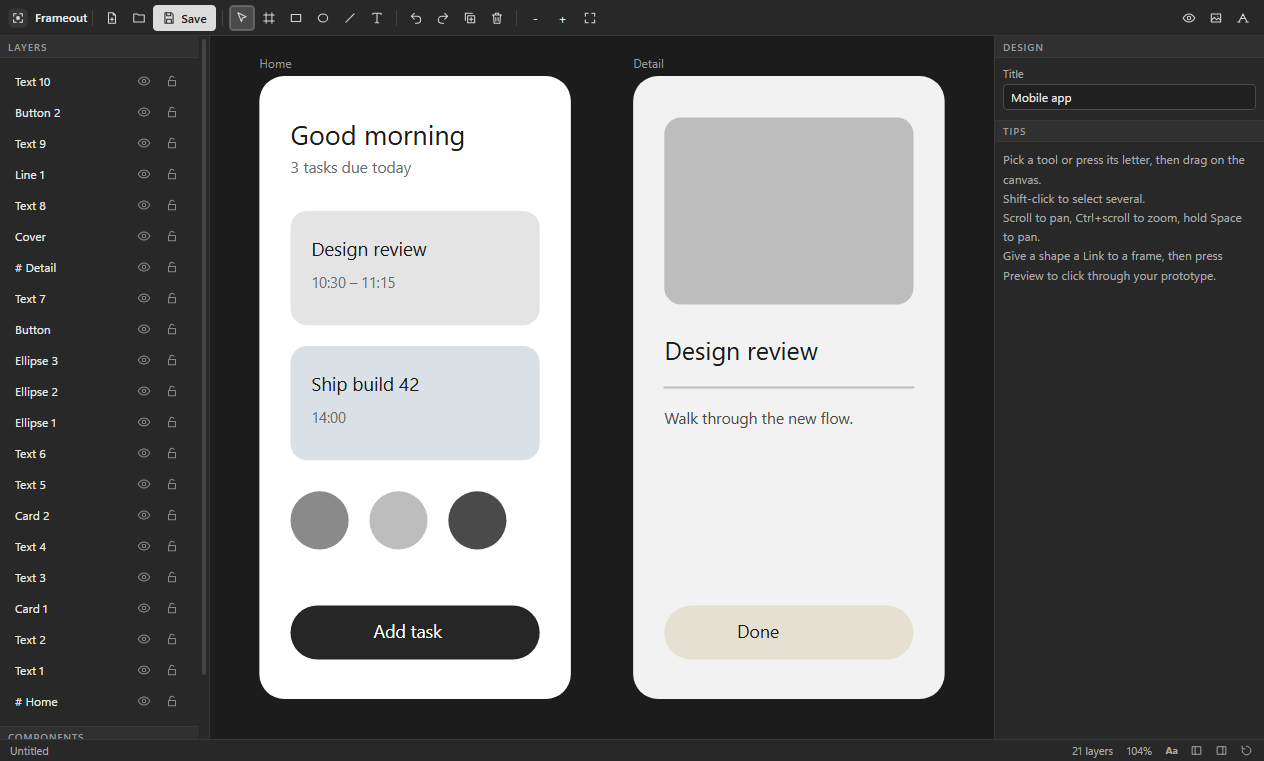
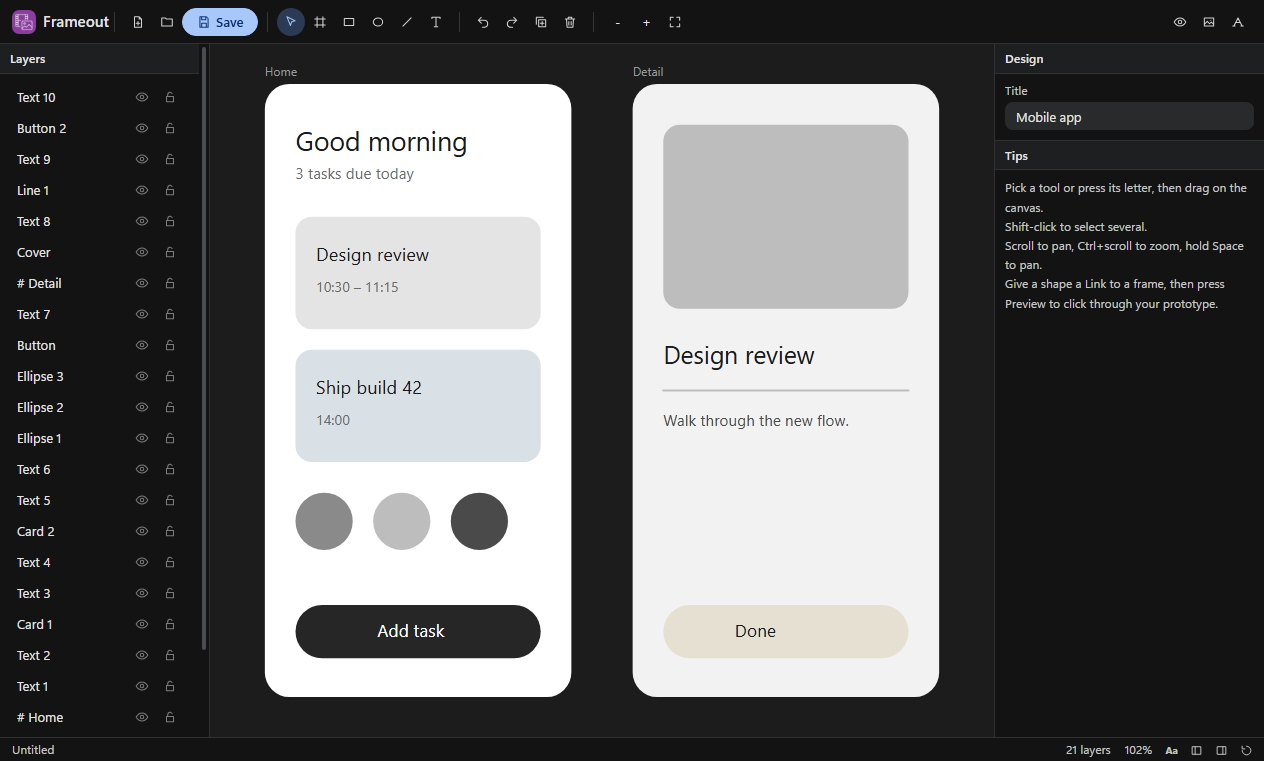
fix: Frameout 1.0.12
New Google-style look: charcoal theme, pill buttons, blue accent, colour app logo. Refreshed README and screenshots.

diff --git a/renderer/lookout.css b/renderer/lookout.css
@@ -1,68 +1,69 @@
-/* Lookout gray UI kit v3: compact pro workspace, flat, no hue. Shared by every Lookout app. */
+/* Lookout UI kit v4: Google-style dark (AI Studio / Colab / Gemini): soft surfaces, pill buttons, blue accent. Shared by every Lookout app. */
 :root{
-  --bg:#202020; --bg-2:#282828; --bg-3:#303030; --bg-4:#3a3a3a; --stage:#181818;
-  --line:#383838; --line-2:#4a4a4a; --line-3:#5c5c5c;
-  --text:#e8e8e8; --text-2:#ababab; --text-3:#9a9a9a;
-  --accent:#dcdcdc; --accent-ink:#1b1b1b; --focus:#a0a0a0;
-  --radius:4px; --h:26px; --pad:8px;
-  --font:"Segoe UI Variable Text","Segoe UI",system-ui,-apple-system,sans-serif; --mono:Consolas,"Cascadia Mono",monospace;
+  --bg:#131314; --bg-2:#1e1f20; --bg-3:#282a2c; --bg-4:#333537; --stage:#0e0e0f;
+  --line:#2f3133; --line-2:#444746; --line-3:#5f6368;
+  --text:#e3e3e3; --text-2:#c4c7c5; --text-3:#9aa0a6;
+  --accent:#a8c7fa; --accent-ink:#062e6f; --accent-2:#0b57d0; --accent-soft:#2b3a55; --focus:#a8c7fa;
+  --radius:8px; --h:28px; --pad:10px;
+  --font:"Google Sans Text","Google Sans",Roboto,"Segoe UI Variable Text","Segoe UI",system-ui,-apple-system,sans-serif; --mono:Consolas,"Cascadia Mono",monospace;
 }
 *{box-sizing:border-box;margin:0;padding:0}
-html,body{height:100%;background:var(--bg);color:var(--text);font:12px/1.4 var(--font);overflow:hidden;user-select:none;-webkit-font-smoothing:antialiased}
+html,body{height:100%;background:var(--bg);color:var(--text);font:13px/1.45 var(--font);overflow:hidden;user-select:none;-webkit-font-smoothing:antialiased}
 button,input,select,textarea{font:inherit;color:inherit}
 .app{display:grid;grid-template-rows:auto 1fr auto;height:100vh}
 
 /* ---------- toolbar ---------- */
-.toolbar{display:flex;align-items:center;gap:1px;padding:4px 8px;min-height:36px;background:var(--bg-2);border-bottom:1px solid var(--line);flex-wrap:nowrap;overflow-x:auto;overflow-y:hidden;scrollbar-width:none}
+.toolbar{display:flex;align-items:center;gap:1px;padding:6px 12px;min-height:44px;background:var(--bg);border-bottom:1px solid var(--line);flex-wrap:nowrap;overflow-x:auto;overflow-y:hidden;scrollbar-width:none}
 .toolbar::-webkit-scrollbar{height:0}
 .toolbar>*{flex-shrink:0}
-.toolbar .sep{width:1px;height:16px;align-self:center;background:var(--line-2);margin:0 5px;opacity:.8}
+.toolbar .sep{width:1px;height:20px;align-self:center;background:var(--line-2);margin:0 8px;opacity:.7}
 .toolbar .grow{flex:1 1 auto;min-width:8px}
 .toolbar input[type=text],.toolbar input[type=search]{width:150px}
-.brand{display:flex;align-items:center;gap:7px;padding-right:2px;margin-right:2px;font-weight:600;font-size:12px;color:var(--text)}
-.brand img{width:20px;height:20px;border-radius:5px;display:block}
+.brand{display:flex;align-items:center;gap:7px;padding-right:2px;margin-right:2px;font-weight:500;font-size:15px;letter-spacing:.1px;color:var(--text)}
+.brand img{width:24px;height:24px;border-radius:7px;display:block}
 .brand+.sep{margin-left:0}
 
 /* ---------- buttons ---------- */
-.btn{display:inline-flex;align-items:center;justify-content:center;gap:5px;height:var(--h);padding:0 8px;background:var(--bg-3);border:1px solid var(--line);border-radius:var(--radius);cursor:pointer;white-space:nowrap;line-height:1;transition:background .08s,border-color .08s}
-.btn:hover{background:var(--bg-4);border-color:var(--line-2)}
-.btn:active{background:#262626}
+.btn{display:inline-flex;align-items:center;justify-content:center;gap:5px;height:var(--h);padding:0 14px;background:var(--bg-3);border:1px solid transparent;border-radius:999px;cursor:pointer;white-space:nowrap;line-height:1;transition:background .08s,border-color .08s}
+.btn:hover{background:var(--bg-4)}
+.btn:active{background:#3c3f41}
 .btn:focus-visible,input:focus-visible,select:focus-visible,textarea:focus-visible,[tabindex]:focus-visible{outline:2px solid var(--focus);outline-offset:1px}
-.btn.primary{background:var(--accent);color:var(--accent-ink);border-color:var(--accent);font-weight:600}
-.btn.primary:hover{background:#ececec;border-color:#ececec}
-.btn.on{background:#4a4a4a;border-color:var(--line-3);box-shadow:inset 0 0 0 1px #6a6a6a}
+.btn.primary{background:var(--accent);color:var(--accent-ink);border-color:var(--accent);font-weight:500}
+.btn.primary:hover{background:#c2d7fb;border-color:#c2d7fb;box-shadow:0 1px 3px rgba(0,0,0,.4)}
+.btn.on{background:var(--accent-soft);color:var(--accent);border-color:transparent}
 .btn[disabled]{opacity:.45;pointer-events:none}
-.btn.icon{padding:0;width:var(--h);min-width:var(--h)}
+.btn.icon{padding:0;width:var(--h);min-width:var(--h);border-radius:50%}
 .btn .ic{width:14px;height:14px;flex-shrink:0;display:block;opacity:.92}
 .toolbar .btn:not(.primary):not(.on){background:transparent;border-color:transparent}
-.toolbar .btn:not(.primary):not(.on):hover{background:var(--bg-4);border-color:var(--line-2)}
+.toolbar .btn:not(.primary):not(.on):hover{background:var(--bg-3);border-color:transparent}
 
 /* icon-only toolbar: names live in the tooltip (Aa in the status bar brings the labels back) */
-.toolbar:not(.lbl) .btn:not(.primary):has(> svg.ic),.toolbar.c3 .btn:has(> svg.ic){font-size:0;gap:0;width:var(--h);padding:0}
+.toolbar:not(.lbl) .btn:not(.primary):has(> svg.ic),.toolbar.c3 .btn:has(> svg.ic){font-size:0;gap:0;width:var(--h);padding:0;border-radius:50%}
 .toolbar.c2 .brand span{display:none}
 .toolbar.c2 input[type=text],.toolbar.c2 input[type=search]{width:110px}
 .toolbar.lbl.c1 .btn.minor:not(.primary):has(> svg.ic),.toolbar.lbl.c2 .btn:not(.primary):has(> svg.ic){font-size:0;gap:0;width:var(--h);padding:0}
 
 /* ---------- fields ---------- */
-input[type=text],input[type=number],input[type=search],input[type=date],select,textarea{background:var(--bg);border:1px solid var(--line-2);border-radius:var(--radius);padding:0 7px;height:var(--h);user-select:text;min-width:0;font-size:12px}
+input[type=text],input[type=number],input[type=search],input[type=date],select,textarea{background:var(--bg-3);border:1px solid transparent;border-radius:var(--radius);padding:0 10px;height:var(--h);user-select:text;min-width:0;font-size:13px}
 input[type=number],.frow>input,.field>input{font-variant-numeric:tabular-nums}
 textarea{height:auto;padding:5px 7px;resize:vertical;line-height:1.4}
 select{padding-right:4px;cursor:pointer}
-input:hover,select:hover,textarea:hover{border-color:var(--line-3)}
-input[type=range]{accent-color:#c8c8c8;height:var(--h)}
-input[type=checkbox]{accent-color:#c8c8c8;width:14px;height:14px;cursor:pointer}
-input[type=color]{border:1px solid var(--line-2);background:var(--bg);width:26px;height:var(--h);padding:2px;border-radius:var(--radius)}
-label.field{display:flex;flex-direction:column;gap:3px;color:var(--text-2);font-size:11px}
-label.field>input,label.field>select,label.field>textarea{width:100%;color:var(--text);font-size:12px}
+input:hover,select:hover,textarea:hover{background:var(--bg-4)}
+input[type=text]:focus,input[type=number]:focus,input[type=search]:focus,input[type=date]:focus,select:focus,textarea:focus{outline:none;border-color:var(--accent);background:var(--bg-2)}
+input[type=range]{accent-color:#a8c7fa;height:var(--h)}
+input[type=checkbox]{accent-color:#a8c7fa;width:14px;height:14px;cursor:pointer}
+input[type=color]{border:1px solid var(--line-2);background:var(--bg-3);width:26px;height:var(--h);padding:2px;border-radius:var(--radius)}
+label.field{display:flex;flex-direction:column;gap:3px;color:var(--text-2);font-size:12px}
+label.field>input,label.field>select,label.field>textarea{width:100%;color:var(--text);font-size:13px}
 
 /* ---------- layout ---------- */
 .main{display:flex;min-height:0;min-width:0}
-.sidebar{width:210px;background:var(--bg-2);border-right:1px solid var(--line);overflow:auto;padding:var(--pad);flex-shrink:0;min-width:0}
+.sidebar{width:210px;background:var(--bg);border-right:1px solid var(--line);overflow:auto;padding:var(--pad);flex-shrink:0;min-width:0}
 .sidebar.right{border-right:0;border-left:1px solid var(--line);width:250px}
 .sidebar.collapsed{display:none!important}
-.sidebar h3,.panel-title{font-size:10px;text-transform:uppercase;letter-spacing:.09em;color:var(--text-3);font-weight:600}
+.sidebar h3,.panel-title{font-size:12px;letter-spacing:.2px;color:var(--text-2);font-weight:500}
 .sidebar h3{margin:12px 0 6px}
-.sidebar>h3{display:flex;align-items:center;gap:6px;height:22px;margin:10px calc(var(--pad) * -1) 8px;padding:0 var(--pad);background:var(--bg-3);border-top:1px solid var(--line);border-bottom:1px solid var(--line)}
+.sidebar>h3{display:flex;align-items:center;gap:6px;height:30px;margin:10px calc(var(--pad) * -1) 8px;padding:0 var(--pad);background:var(--bg-2);border-top:1px solid var(--line);border-bottom:1px solid var(--line);color:var(--text)}
 .sidebar>h3:first-child{margin-top:calc(var(--pad) * -1);border-top:0}
 .panel-title{margin:12px 0 6px}
 .sidebar input[type=text],.sidebar input[type=search],.sidebar select,.sidebar textarea{width:100%}
@@ -73,20 +74,20 @@ label.field>input,label.field>select,label.field>textarea{width:100%;color:var(-
 .sidebar .btn{width:auto}
 .sidebar>.btn{width:100%;margin-bottom:5px}
 .stage{flex:1;min-width:0;min-height:0;position:relative;background:var(--stage);overflow:auto}
-.status{display:flex;gap:14px;align-items:center;height:22px;padding:0 10px;background:var(--bg-2);border-top:1px solid var(--line);color:var(--text-2);font-size:11px;white-space:nowrap;overflow:hidden}
+.status{display:flex;gap:14px;align-items:center;height:24px;padding:0 12px;background:var(--bg);border-top:1px solid var(--line);color:var(--text-2);font-size:12px;white-space:nowrap;overflow:hidden}
 .status .grow{flex:1}
 body.hasdock .status{padding-right:112px}
-.wbs{position:fixed;right:6px;bottom:2px;height:18px;display:flex;gap:2px;z-index:8;background:var(--bg-2);padding-left:6px}
+.wbs{position:fixed;right:6px;bottom:2px;height:18px;display:flex;gap:2px;z-index:8;background:var(--bg);padding-left:6px}
 .wbs[hidden]{display:none}
-.wbs .wb{height:18px;min-width:22px;padding:0 4px;display:inline-flex;align-items:center;justify-content:center;font-size:10px;font-weight:700;line-height:1;background:transparent;border:1px solid transparent;border-radius:3px;color:var(--text-2);cursor:pointer}
+.wbs .wb{height:18px;min-width:22px;padding:0 4px;display:inline-flex;align-items:center;justify-content:center;font-size:10px;font-weight:700;line-height:1;background:transparent;border:1px solid transparent;border-radius:6px;color:var(--text-2);cursor:pointer}
 .wbs .wb[hidden]{display:none}
 .wbs .wb svg{width:13px;height:13px;display:block}
-.wbs .wb:hover{background:var(--bg-4);border-color:var(--line-2);color:var(--text)}
-.wbs .wb.on{background:var(--bg-4);border-color:var(--line-3);color:var(--text)}
+.wbs .wb:hover{background:var(--bg-3);color:var(--text)}
+.wbs .wb.on{background:var(--accent-soft);color:var(--accent)}
 .list{display:flex;flex-direction:column;gap:1px}
-.list .item{padding:3px 6px;border-radius:var(--radius);cursor:pointer;border:1px solid transparent;display:flex;gap:6px;align-items:center;min-height:26px}
+.list .item{padding:3px 10px;border-radius:999px;cursor:pointer;border:1px solid transparent;display:flex;gap:6px;align-items:center;min-height:26px}
 .list .item:hover{background:var(--bg-3)}
-.list .item.sel{background:var(--bg-4);border-color:var(--line-2)}
+.list .item.sel{background:var(--accent-soft);color:var(--accent);border-color:transparent}
 .row{display:flex;gap:5px;align-items:center}
 .grow{flex:1 1 auto;min-width:0}
 .brow{display:grid;grid-template-columns:1fr 1fr;gap:5px;margin-bottom:5px}
@@ -99,17 +100,17 @@ body.hasdock .status{padding-right:112px}
 .sidebar .swatches{margin-bottom:8px}
 .list .item .btn{height:22px!important;width:24px!important;padding:0!important;font-size:0!important;gap:0;background:transparent;border-color:transparent;opacity:.55}
 .list .item:hover .btn,.list .item.sel .btn{opacity:1}
-.list .item .btn:hover{background:var(--bg-4);border-color:var(--line-2)}
+.list .item .btn:hover{background:var(--bg-4)}
 .col{display:flex;flex-direction:column;gap:5px}
 .muted{color:var(--text-2)}
 .empty{position:absolute;inset:0;display:flex;flex-direction:column;align-items:center;justify-content:center;gap:10px;color:var(--text-3);text-align:center;padding:24px}
-.empty .big{font-size:16px;color:var(--text-2);font-weight:600}
+.empty .big{font-size:20px;color:var(--text);font-weight:400}
 
 /* panel grip: drag to resize, double-click to collapse or restore */
 .grip{position:relative;flex:0 0 5px;width:5px;margin:0 -3px 0 -2px;z-index:6;cursor:col-resize;touch-action:none}
 .grip::after{content:"";position:absolute;top:0;bottom:0;left:2px;width:1px;background:transparent;transition:background .1s}
-.grip:hover::after,.grip.drag::after{background:var(--line-3);width:2px;left:1px}
-.grip.collapsed{flex:0 0 8px;width:8px;margin:0;background:var(--bg-2);border-left:1px solid var(--line);border-right:1px solid var(--line)}
+.grip:hover::after,.grip.drag::after{background:var(--accent);width:2px;left:1px}
+.grip.collapsed{flex:0 0 8px;width:8px;margin:0;background:var(--bg);border-left:1px solid var(--line);border-right:1px solid var(--line)}
 .grip.collapsed::after{left:3px;top:calc(50% - 14px);bottom:auto;height:28px;width:2px;background:var(--line-3);border-radius:2px}
 .grip.collapsed:hover{background:var(--bg-3)}
 body.gripping{cursor:col-resize}
@@ -117,30 +118,30 @@ body.gripping *{cursor:col-resize!important;user-select:none!important}
 
 /* ---------- overlays ---------- */
 .modal-back{position:fixed;inset:0;background:rgba(0,0,0,.6);display:flex;align-items:center;justify-content:center;z-index:50}
-.modal{background:var(--bg-2);border:1px solid var(--line-2);border-radius:8px;min-width:340px;max-width:80vw;max-height:85vh;overflow:auto;padding:16px;display:flex;flex-direction:column;gap:12px;box-shadow:0 18px 50px rgba(0,0,0,.5)}
-.modal h2{font-size:14px;font-weight:600}
-.toast{position:fixed;left:50%;bottom:34px;transform:translateX(-50%);background:var(--bg-4);border:1px solid var(--line-3);padding:7px 14px;border-radius:6px;z-index:60;box-shadow:0 8px 24px rgba(0,0,0,.4)}
-.progress{height:5px;background:var(--bg);border:1px solid var(--line);border-radius:4px;overflow:hidden}
+.modal{background:var(--bg-2);border:0;border-radius:24px;min-width:360px;max-width:80vw;max-height:85vh;overflow:auto;padding:24px;display:flex;flex-direction:column;gap:14px;box-shadow:0 8px 32px rgba(0,0,0,.6)}
+.modal h2{font-size:20px;font-weight:400}
+.toast{position:fixed;left:50%;bottom:34px;transform:translateX(-50%);background:#e3e3e3;color:#1f1f1f;border:0;padding:10px 18px;border-radius:8px;z-index:60;box-shadow:0 8px 24px rgba(0,0,0,.4)}
+.progress{height:6px;background:var(--bg-3);border:0;border-radius:999px;overflow:hidden}
 .progress>i,.progress>div{display:block;height:100%;background:var(--accent);width:0}
 
 /* ---------- tables ---------- */
 table.grid{border-collapse:separate;border-spacing:0;width:100%}
 table.grid th,table.grid td{border-bottom:1px solid var(--line);padding:0 10px;height:30px;text-align:left;vertical-align:middle}
-table.grid th{background:var(--bg-2);color:var(--text-2);font-weight:600;font-size:11px;position:sticky;top:0;z-index:1;height:26px}
-table.grid tbody tr:hover td{background:#242424}
-table.grid tr.sel td{background:#323232}
+table.grid th{background:var(--bg-2);color:var(--text-2);font-weight:500;font-size:12px;position:sticky;top:0;z-index:1;height:26px}
+table.grid tbody tr:hover td{background:var(--bg-2)}
+table.grid tr.sel td{background:var(--accent-soft)}
 table.grid tbody tr{cursor:default}
 table.grid td .btn{height:22px;margin-left:6px;vertical-align:middle}
 table.grid td{white-space:nowrap}
 
 /* ---------- misc ---------- */
 ::-webkit-scrollbar{width:10px;height:10px}
-::-webkit-scrollbar-thumb{background:#454545;border:3px solid transparent;background-clip:padding-box;border-radius:8px}
-::-webkit-scrollbar-thumb:hover{background:#5a5a5a;background-clip:padding-box;border:3px solid transparent}
+::-webkit-scrollbar-thumb{background:#4a4d50;border:3px solid transparent;background-clip:padding-box;border-radius:8px}
+::-webkit-scrollbar-thumb:hover{background:#6b6f73;background-clip:padding-box;border:3px solid transparent}
 ::-webkit-scrollbar-track,::-webkit-scrollbar-corner{background:transparent}
 .swatches{display:flex;flex-wrap:wrap;gap:5px}
-.swatches button{width:20px;height:20px;border:1px solid var(--line-3);border-radius:4px;cursor:pointer;padding:0}
+.swatches button{width:22px;height:22px;border:1px solid var(--line-3);border-radius:50%;cursor:pointer;padding:0}
 .swatches button.on{outline:2px solid var(--accent);outline-offset:2px}
-kbd{font-family:var(--mono);font-size:10px;background:var(--bg-3);border:1px solid var(--line-2);border-bottom-width:2px;border-radius:3px;padding:0 4px}
+kbd{font-family:var(--mono);font-size:10px;background:var(--bg-3);border:1px solid var(--line-2);border-bottom-width:2px;border-radius:4px;padding:0 5px}
 
 input::placeholder,textarea::placeholder{color:var(--text-3);opacity:1}

diff --git a/README.md b/README.md
@@ -1,8 +1,10 @@
-<p align="center"><img src="screenshots/banner.png" alt="Frameout" width="100%"></p>
+<p align="center"><img src="screenshots/logo.png" alt="Frameout" width="128"></p>
 
-<p align="center"><b>Screen design and prototypes</b><br>Version 1.0.2 for Windows · Free · Offline · No account</p>
+<h1 align="center">Frameout</h1>
 
-<p align="center"><a href="https://github.com/plawanpawin-byte/frameout/releases/latest"><b>Download Frameout</b></a> · <a href="https://github.com/plawanpawin-byte/Lookout">All Lookout apps</a></p>
+<p align="center"><b>Screen design and prototypes</b><br>Version 1.0.12 for Windows · Free · Offline · No account</p>
+
+<p align="center"><a href="https://github.com/plawanpawin-byte/frameout/releases/latest"><b>Download Frameout</b></a> · <a href="https://github.com/plawanpawin-byte/lookout-launcher">Lookout launcher</a> · <a href="https://github.com/plawanpawin-byte/Lookout">All Lookout apps</a></p>
 
 ---
 
@@ -12,11 +14,51 @@ Frameout is a canvas for designing app screens and web pages. Draw a frame for e
 
 ![Frameout](screenshots/01-canvas.png)
 
-**On this page:** [Screenshots](#see-it-in-action) · [Interface](#the-interface) · [Features](#everything-it-can-do) · [How to use it](#how-to-use-it) · [Shortcuts](#keyboard-shortcuts) · [Formats](#files-and-formats) · [Privacy](#private-by-design) · [Install](#install) · [Questions](#questions)
+**On this page:** [In plain words](#in-plain-words) · [Who it is for](#who-it-is-for) · [Try it in 3 steps](#try-it-in-3-steps) · [Screenshots](#see-it-in-action) · [Features](#everything-it-can-do) · [How to use it](#how-to-use-it) · [Privacy](#private-by-design) · [Install](#install) · [Questions](#questions)
 
-## What is new in 1.0.2
+## In plain words
 
-A refreshed interface: every toolbar button now has a clear line icon, the app's mark sits at the top left, controls share one height and spacing, panels line up in tidy grids, and the toolbar keeps every button reachable on smaller windows by switching less important buttons to icons.
+Frameout is a design tool for sketching **app screens and web pages** before anyone builds them. Each screen is a **frame** (a rectangle shaped like a phone, tablet or page). Inside a frame you draw rectangles, circles, lines and text, and arrange them in layers, so you can mock up a login screen or a shop page in minutes.
+
+Then comes the part that makes it a prototype: you can **link a shape to another frame**. Press Preview and click the button in your design to jump to the next screen, exactly as a real app would. You can export any screen as an image or SVG to show a client or a developer.
+
+**Not for:** Frameout is for layout sketches and click-through demos. It does not generate code and is not a photo editor.
+
+## Who it is for
+
+- **Designers and founders** who want to show an idea before it is built.
+- **Developers** who need a quick layout sketch.
+- **Students** doing interface-design assignments.
+
+## Try it in 3 steps
+
+1. Add a frame and draw a rectangle and some text inside it.
+2. Add a second frame and link a button in the first frame to it.
+3. Press **Preview** and click through your screens, then export one as an image.
+
+## What is new in 1.0.12
+
+A new look inspired by Google's own tools (AI Studio, Colab, Gemini): a calm dark charcoal theme, rounded pill buttons, a soft blue accent and roomier spacing. The app icon is now a colour logo so you can find Frameout at a glance in the Start menu and in the Lookout launcher. All screenshots below were taken again with the new look.
+
+## In plain words
+
+Frameout is a design tool for sketching **app screens and web pages** before anyone builds them. Each screen is a **frame** (a rectangle shaped like a phone, tablet or page). Inside a frame you draw rectangles, circles, lines and text, and arrange them in layers, so you can mock up a login screen or a shop page in minutes.
+
+Then comes the part that makes it a prototype: you can **link a shape to another frame**. Press Preview and click the button in your design to jump to the next screen, exactly as a real app would. You can export any screen as an image or SVG to show a client or a developer.
+
+**Not for:** Frameout is for layout sketches and click-through demos. It does not generate code and is not a photo editor.
+
+## Who it is for
+
+- **Designers and founders** who want to show an idea before it is built.
+- **Developers** who need a quick layout sketch.
+- **Students** doing interface-design assignments.
+
+## Try it in 3 steps
+
+1. Add a frame and draw a rectangle and some text inside it.
+2. Add a second frame and link a button in the first frame to it.
+3. Press **Preview** and click through your screens, then export one as an image.
 
 ## See it in action
 
@@ -118,7 +160,7 @@ Saves .frameout files. Exports PNG and SVG.
 
 ## Install
 
-1. Open the [latest release](https://github.com/plawanpawin-byte/frameout/releases/latest) and download the file named **Frameout-Setup-** followed by the version number and **.exe**. You can also install it from the [Lookout launcher](https://github.com/${OWNER}/lookout-launcher), which keeps it up to date.
+1. Open the [latest release](https://github.com/plawanpawin-byte/frameout/releases/latest) and download the file named **Frameout-Setup-** followed by the version number and **.exe**. You can also install it from the [Lookout launcher](https://github.com/plawanpawin-byte/lookout-launcher), which keeps it up to date.
 2. Run the installer. It installs just for you, so it does not ask for administrator rights.
 3. Windows may show a blue **Windows protected your PC** screen because these installers are not signed with a paid certificate. Click **More info**, then **Run anyway**.
 4. Open Frameout from the Start menu.
@@ -133,18 +175,40 @@ No. Frameout is a standalone sketching tool.
 **Does Preview need internet?**  
 No. Everything runs offline.
 
+**What is a prototype?**  
+A pretend version of an app: it looks like the real thing and you can click between screens, but nothing is really built behind it.
+
+**Can I reorder things that overlap?**  
+Yes. Use the layers list to bring a shape forward or send it back.
+
+**Can I send the design to someone?**  
+Export each screen as PNG or SVG, or share the project file.
+
+**What is a prototype?**  
+A pretend version of an app: it looks like the real thing and you can click between screens, but nothing is really built behind it.
+
+**Can I reorder things that overlap?**  
+Yes. Use the layers list to bring a shape forward or send it back.
+
+**Can I send the design to someone?**  
+Export each screen as PNG or SVG, or share the project file.
+
 ## About Lookout
 
-Frameout belongs to the **[Lookout](https://github.com/plawanpawin-byte/Lookout)** family: ten small, private Windows apps for documents and media, all with the same calm grey look and the same promise that your files stay yours. Install and update them together with the [Lookout launcher](https://github.com/plawanpawin-byte/lookout-launcher).
+Frameout is part of **[Lookout](https://github.com/plawanpawin-byte/Lookout)**: ten small, private Windows apps for documents and media that share one look and one promise, that your files stay on your computer. Install and update them together with the [Lookout launcher](https://github.com/plawanpawin-byte/lookout-launcher).
 
-- **[Pageout](https://github.com/plawanpawin-byte/pageout)**: read, annotate and sign pdfs
-- **[Chartout](https://github.com/plawanpawin-byte/chartout)**: flowcharts and diagrams
-- **[Branchout](https://github.com/plawanpawin-byte/branchout)**: mind maps and outlines
-- **[Planout](https://github.com/plawanpawin-byte/planout)**: plans and gantt timelines
-- **[Cutout](https://github.com/plawanpawin-byte/cutout)**: video editing on a timeline
-- **[Shiftout](https://github.com/plawanpawin-byte/shiftout)**: convert and compress media
-- **[Castout](https://github.com/plawanpawin-byte/castout)**: record your screen
-- **[Mendout](https://github.com/plawanpawin-byte/mendout)**: repair damaged media
-- **[Tuneout](https://github.com/plawanpawin-byte/tuneout)**: record and edit audio
+| | App | What it is for | Code |
+| --- | --- | --- | --- |
+| <img src="https://raw.githubusercontent.com/plawanpawin-byte/lookout-launcher/main/build/icon.png" width="32" alt="Lookout"> | **Lookout** | Install, open and update all the apps below | [GitHub](https://github.com/plawanpawin-byte/lookout-launcher) |
+| <img src="https://raw.githubusercontent.com/plawanpawin-byte/pageout/main/build/icon.png" width="32" alt="Pageout"> | **Pageout** | Read, annotate and sign PDFs | [GitHub](https://github.com/plawanpawin-byte/pageout) |
+| <img src="https://raw.githubusercontent.com/plawanpawin-byte/chartout/main/build/icon.png" width="32" alt="Chartout"> | **Chartout** | Flowcharts, org charts and diagrams | [GitHub](https://github.com/plawanpawin-byte/chartout) |
+| <img src="https://raw.githubusercontent.com/plawanpawin-byte/branchout/main/build/icon.png" width="32" alt="Branchout"> | **Branchout** | Mind maps and outlines | [GitHub](https://github.com/plawanpawin-byte/branchout) |
+| <img src="https://raw.githubusercontent.com/plawanpawin-byte/planout/main/build/icon.png" width="32" alt="Planout"> | **Planout** | Project plans and Gantt timelines | [GitHub](https://github.com/plawanpawin-byte/planout) |
+| <img src="https://raw.githubusercontent.com/plawanpawin-byte/frameout/main/build/icon.png" width="32" alt="Frameout"> | **Frameout** | App and web screen design with click-through prototypes | [GitHub](https://github.com/plawanpawin-byte/frameout) |
+| <img src="https://raw.githubusercontent.com/plawanpawin-byte/cutout/main/build/icon.png" width="32" alt="Cutout"> | **Cutout** | Video editing on a timeline | [GitHub](https://github.com/plawanpawin-byte/cutout) |
+| <img src="https://raw.githubusercontent.com/plawanpawin-byte/shiftout/main/build/icon.png" width="32" alt="Shiftout"> | **Shiftout** | Convert and compress video and audio, make GIFs | [GitHub](https://github.com/plawanpawin-byte/shiftout) |
+| <img src="https://raw.githubusercontent.com/plawanpawin-byte/castout/main/build/icon.png" width="32" alt="Castout"> | **Castout** | Record your screen | [GitHub](https://github.com/plawanpawin-byte/castout) |
+| <img src="https://raw.githubusercontent.com/plawanpawin-byte/mendout/main/build/icon.png" width="32" alt="Mendout"> | **Mendout** | Check and repair damaged video, audio, pictures and PDFs | [GitHub](https://github.com/plawanpawin-byte/mendout) |
+| <img src="https://raw.githubusercontent.com/plawanpawin-byte/tuneout/main/build/icon.png" width="32" alt="Tuneout"> | **Tuneout** | Record and edit audio | [GitHub](https://github.com/plawanpawin-byte/tuneout) |
 
 Released under the MIT License.
